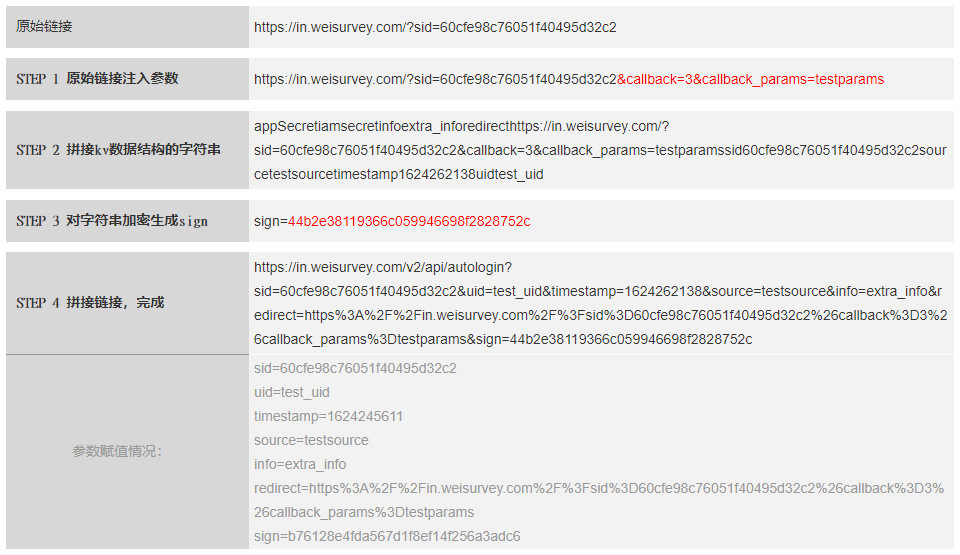
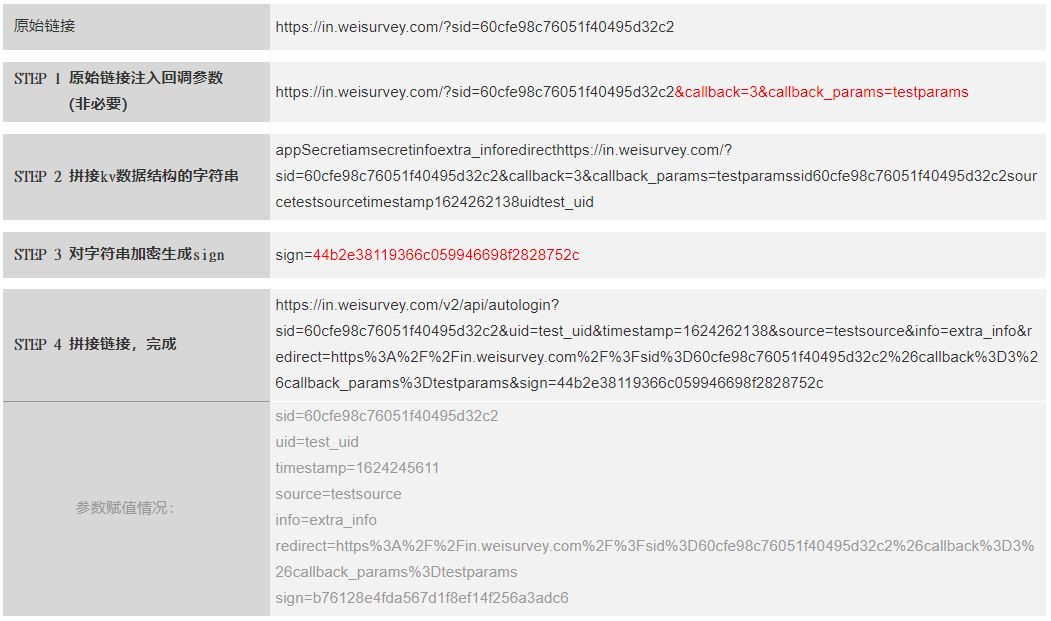
GitBook: [master] one page and 2 assets modified

diff --git a/api-wen-dang/fei-msdk-deng-lu-tai-chuan-di-jie-kou.md b/api-wen-dang/fei-msdk-deng-lu-tai-chuan-di-jie-kou.md
@@ -224,7 +224,7 @@ https://user.outweisurvey.com/v2/api/autologin?
 
 https://in.weisurvey.com/?sid=60cfe98c76051f40495d32c2
 
-#### STEP 1 原始链接注入参数
+#### STEP 1 原始链接注入回调参数（非必要）
 
 https://in.weisurvey.com/?sid=60cfe98c76051f40495d32c2**&callback=3&callback\_params=testparams**
 
